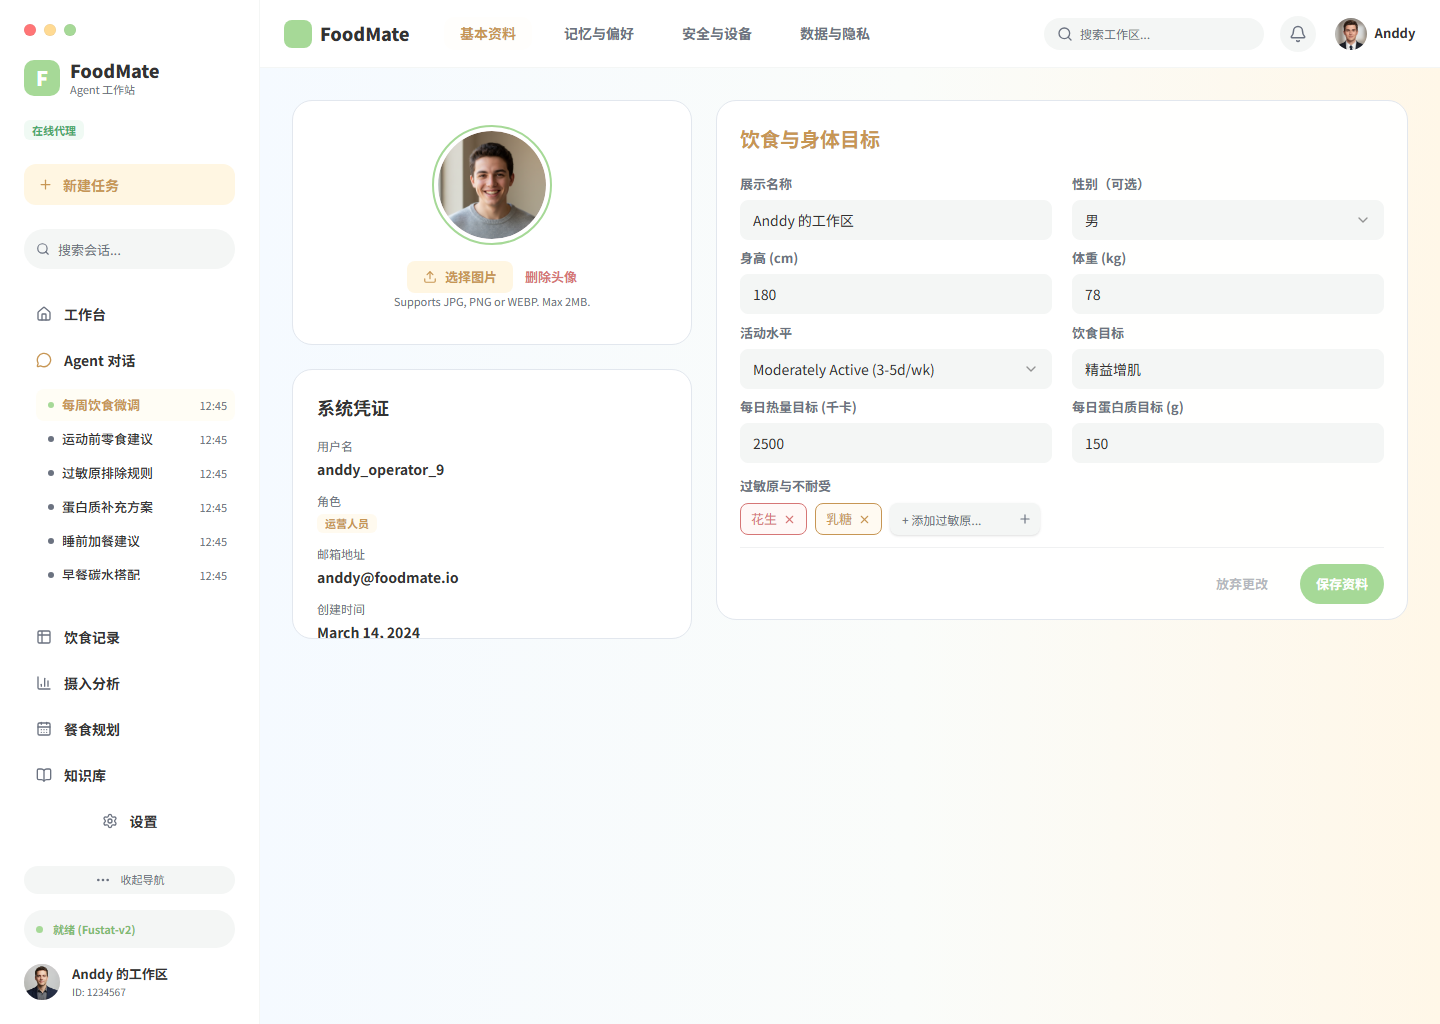
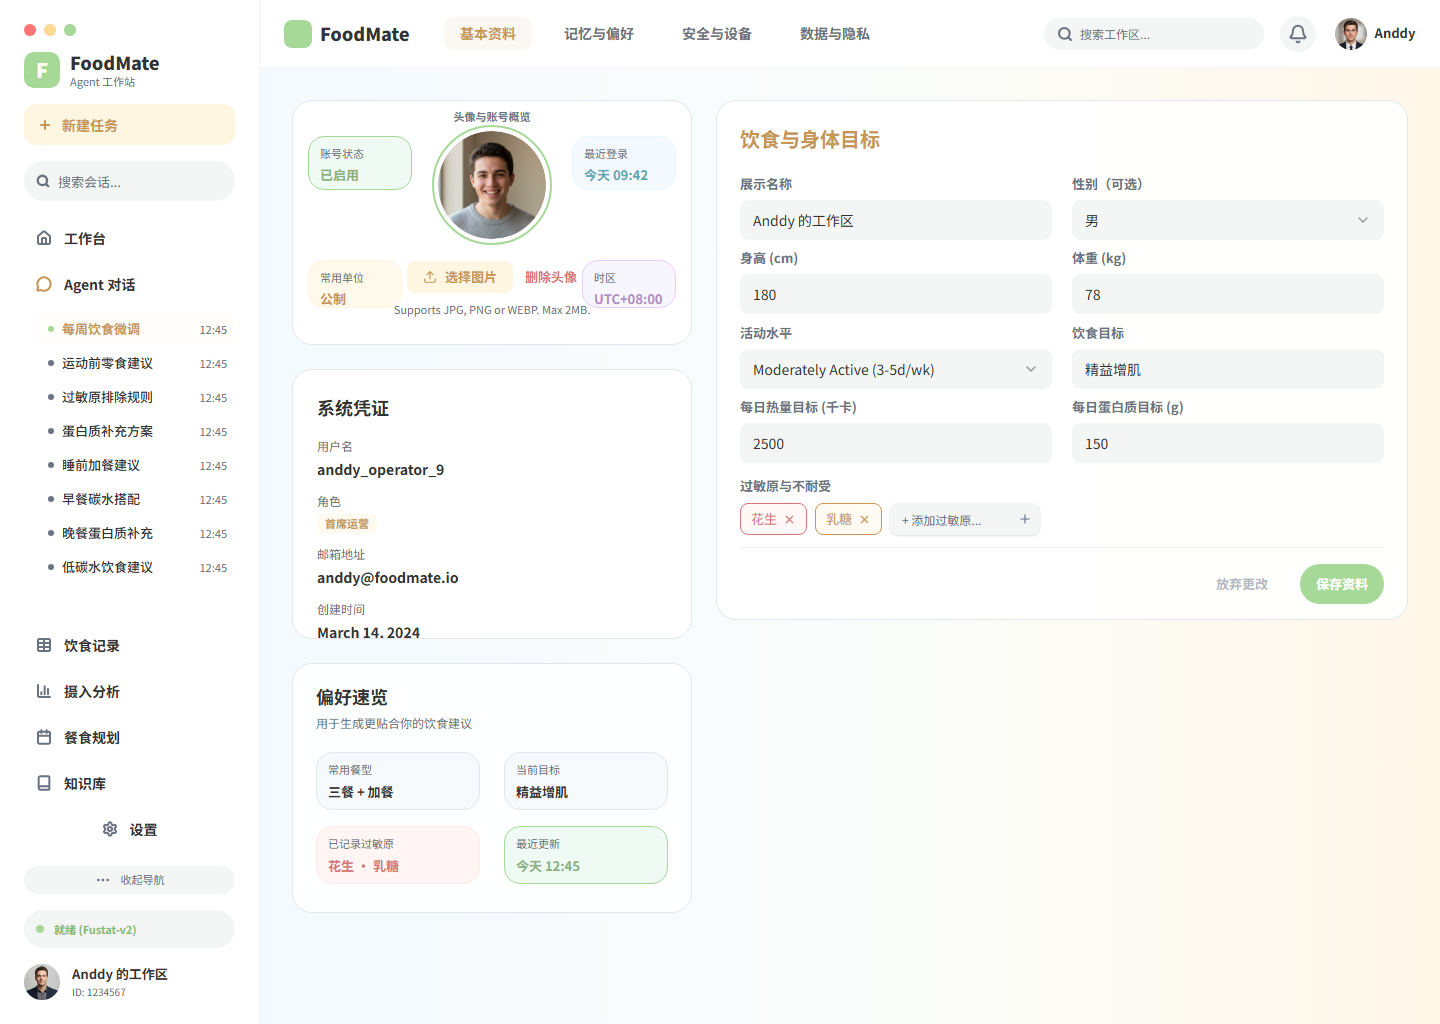
feat(profile): 收口 Figma Basic fixture

diff --git a/foodmate-ui/src/pages/ProfilePage/ProfilePage.tsx b/foodmate-ui/src/pages/ProfilePage/ProfilePage.tsx
@@ -787,8 +787,8 @@ function BasicTab({
   return (
     <div className={styles.basicLayout}>
       <div className={styles.basicLeft}>
-        <Card className={styles.profileCard}>
-          {!figmaFixture ? <p className={styles.overline}>头像与账号概览</p> : null}
+        <Card className={cn(styles.profileCard, figmaFixture && styles.figmaProfileCard)}>
+          <p className={styles.overline}>头像与账号概览</p>
           <div className={styles.avatarShell}>
             <div className={styles.avatarRing}>
               {avatarSource ? (
@@ -833,26 +833,22 @@ function BasicTab({
               </span>
             </div>
           ) : null}
-          {!figmaFixture ? (
-            <>
-              <div className={cn(styles.avatarSummary, styles.summaryStatus)}>
-                <span>账号状态</span>
-                <strong>{statusLabel(authUser.status)}</strong>
-              </div>
-              <div className={cn(styles.avatarSummary, styles.summaryLogin)}>
-                <span>最近登录</span>
-                <strong>{realMode ? authUser.lastLoginAt : '今天 09:42'}</strong>
-              </div>
-              <div className={cn(styles.avatarSummary, styles.summaryUnits)}>
-                <span>常用单位</span>
-                <strong>公制</strong>
-              </div>
-              <div className={cn(styles.avatarSummary, styles.summaryTimezone)}>
-                <span>时区</span>
-                <strong>UTC+08:00</strong>
-              </div>
-            </>
-          ) : null}
+          <div className={cn(styles.avatarSummary, styles.summaryStatus)}>
+            <span>账号状态</span>
+            <strong>{statusLabel(authUser.status)}</strong>
+          </div>
+          <div className={cn(styles.avatarSummary, styles.summaryLogin)}>
+            <span>最近登录</span>
+            <strong>{realMode ? authUser.lastLoginAt : '今天 09:42'}</strong>
+          </div>
+          <div className={cn(styles.avatarSummary, styles.summaryUnits)}>
+            <span>常用单位</span>
+            <strong>公制</strong>
+          </div>
+          <div className={cn(styles.avatarSummary, styles.summaryTimezone)}>
+            <span>时区</span>
+            <strong>UTC+08:00</strong>
+          </div>
         </Card>
 
         <Card className={styles.profileCard + ' ' + styles.credentialCard}>
@@ -864,7 +860,10 @@ function BasicTab({
             </div>
             <div>
               <span>角色</span>
-              <StatusChip tone="orange">{roleLabel(authUser.role)}</StatusChip>
+              <StatusChip tone="orange">
+                {/* Figma Basic 的示例角色文案仅覆盖 fixture 展示，不改变真实权限角色。 */}
+                {roleLabel(figmaFixture ? 'admin' : authUser.role)}
+              </StatusChip>
             </div>
             <div>
               <span>邮箱地址</span>
@@ -877,22 +876,20 @@ function BasicTab({
           </div>
         </Card>
 
-        {!figmaFixture ? (
-          <Card className={styles.profileCard + ' ' + styles.preferenceCard}>
-            <h2>偏好速览</h2>
-            <p>用于生成更贴合你的饮食建议</p>
-            <div className={styles.preferenceGrid}>
-              <SummaryTile label="常用餐型" value="三餐 + 加餐" />
-              <SummaryTile label="当前目标" value={profileForm.dietGoal || '精益增肌'} />
-              <SummaryTile
-                label="已记录过敏原"
-                value={profileForm.allergens.length ? profileForm.allergens.join(' · ') : '暂无'}
-                tone="red"
-              />
-              <SummaryTile label="最近更新" value="今天 12:45" tone="green" />
-            </div>
-          </Card>
-        ) : null}
+        <Card className={styles.profileCard + ' ' + styles.preferenceCard}>
+          <h2>偏好速览</h2>
+          <p>用于生成更贴合你的饮食建议</p>
+          <div className={styles.preferenceGrid}>
+            <SummaryTile label="常用餐型" value="三餐 + 加餐" />
+            <SummaryTile label="当前目标" value={profileForm.dietGoal || '精益增肌'} />
+            <SummaryTile
+              label="已记录过敏原"
+              value={profileForm.allergens.length ? profileForm.allergens.join(' · ') : '暂无'}
+              tone="red"
+            />
+            <SummaryTile label="最近更新" value="今天 12:45" tone="green" />
+          </div>
+        </Card>
       </div>
 
       <Card className={cn(styles.goalsCard, figmaFixture && styles.figmaGoalsCard)}>
@@ -2107,12 +2104,13 @@ export function ProfilePage() {
       topAvatarSrc={isFigmaFixture ? FIGMA_PROFILE_AVATARS.topbar : undefined}
       topbarShowMarkLetter={!isFigmaFixture}
       showWindowControls={isFigmaFixture}
+      // Profile 画板使用独立导出的壳层资源，真实模式继续使用 Lucide fallback。
+      fixtureVariant={isFigmaFixture ? 'profile' : undefined}
       sidebarFixture={
         isFigmaFixture
           ? {
               currentPage: 1,
               sessions: figmaSidebarSessions,
-              showTopStatus: true,
             }
           : undefined
       }

diff --git a/foodmate-ui/src/pages/ProfilePage/ProfilePage.test.tsx b/foodmate-ui/src/pages/ProfilePage/ProfilePage.test.tsx
@@ -75,6 +75,10 @@ describe('ProfilePage', () => {
       '/assets/figma/profile/topbar-avatar.png',
     );
     expect(container.querySelector('.profile img')).toHaveAttribute('src', '/assets/figma/profile/sidebar-avatar.png');
+    expect(container.querySelector('img[src="/assets/figma/workspace/profile/home.svg"]')).toBeInTheDocument();
+    expect(container.querySelector('img[src="/assets/figma/workspace/profile/topbar-search.svg"]')).toBeInTheDocument();
+    expect(container.querySelector('img[src="/assets/figma/workspace/profile/notification.svg"]')).toBeInTheDocument();
+    expect(screen.getByText('首席运营')).toBeInTheDocument();
     expect(document.querySelector('[data-name="window-controls"]')).toBeInTheDocument();
   });
 
@@ -90,8 +94,10 @@ describe('ProfilePage', () => {
     expect(screen.getByRole('textbox', { name: '每日热量目标 (千卡)' })).toHaveValue('2500');
     expect(screen.getByRole('textbox', { name: '每日蛋白质目标 (g)' })).toHaveValue('150');
     expect(screen.getByRole('heading', { name: '饮食与身体目标' }).closest('div')).toHaveClass(styles.figmaGoalsCard);
-    expect(screen.queryByText('偏好速览')).not.toBeInTheDocument();
-    expect(screen.queryByText('头像与账号概览')).not.toBeInTheDocument();
+    expect(screen.getByText('偏好速览')).toBeInTheDocument();
+    expect(screen.getByText('头像与账号概览')).toBeInTheDocument();
+    expect(screen.getByText('账号状态')).toBeInTheDocument();
+    expect(screen.getByText('头像与账号概览').closest('div')).toHaveClass(styles.figmaProfileCard);
   });
 
   it('marks the memories page with its Figma-only geometry contract', () => {

diff --git a/foodmate-ui/src/components/workspace/FigmaWorkspaceAsset.tsx b/foodmate-ui/src/components/workspace/FigmaWorkspaceAsset.tsx
@@ -1,6 +1,7 @@
 import type { ImgHTMLAttributes } from 'react';
 
-export type WorkspaceFixtureVariant = 'home' | 'chat' | 'diet-records' | 'analysis' | 'planning' | 'knowledge';
+export type WorkspaceFixtureVariant =
+  'home' | 'chat' | 'diet-records' | 'analysis' | 'planning' | 'knowledge' | 'profile';
 
 export type FigmaWorkspaceAssetName =
   | 'windowControls'
@@ -137,6 +138,23 @@ const assetFileNames: Record<WorkspaceFixtureVariant, Partial<Record<FigmaWorksp
     sessionDotDefault: 'session-dot-default.svg',
   },
   knowledge: {
+    windowControls: 'window-controls.svg',
+    newTask: 'new-task.svg',
+    sessionSearch: 'session-search.svg',
+    home: 'home.svg',
+    agentChat: 'agent-chat.svg',
+    dietRecords: 'diet-records.svg',
+    intakeAnalysis: 'intake-analysis.svg',
+    mealPlanning: 'meal-planning.svg',
+    knowledge: 'knowledge.svg',
+    settings: 'settings.svg',
+    topbarSearch: 'topbar-search.svg',
+    notification: 'notification.svg',
+    statusDot: 'status-dot.svg',
+    sessionDotActive: 'session-dot-active.svg',
+    sessionDotDefault: 'session-dot-default.svg',
+  },
+  profile: {
     windowControls: 'window-controls.svg',
     newTask: 'new-task.svg',
     sessionSearch: 'session-search.svg',

diff --git a/foodmate-ui/src/pages/ProfilePage/ProfilePage.module.css b/foodmate-ui/src/pages/ProfilePage/ProfilePage.module.css
@@ -145,6 +145,10 @@
   text-align: center;
 }
 
+.figmaProfileCard .uploadHint {
+  margin-top: 8px;
+}
+
 .fileName {
   display: block;
   max-width: 100%;

diff --git a/docxs/功能实现说明/Figma前端像素级验收报告.md b/docxs/功能实现说明/Figma前端像素级验收报告.md
@@ -9,7 +9,7 @@
 1. Figma 文件内部结构、组件系统、Prototype 和画板截图回读已完成。
 2. 前端代码与 Figma 画板的自动化像素差异已覆盖 105 个已建立映射的页面/状态，105 个结果均为 `DIFF_REVIEW`，不能标记为像素级通过。
 
-因此当前不能宣称“Figma 105 张画板已全部像素级通过”。已经完成的是可复核的 Figma 全量结构验收、105 个画板的路由/状态映射、差异证据收集，以及运行时几何、可见文字和 DPR 检查；当前 mapping 中 86 项已完成人工复核，19 项仍为 `PENDING`，并且已复核项仍存在可见差异，结果继续保留为 `DIFF_REVIEW`。
+因此当前不能宣称“Figma 105 张画板已全部像素级通过”。已经完成的是可复核的 Figma 全量结构验收、105 个画板的路由/状态映射、差异证据收集，以及运行时几何、可见文字和 DPR 检查；当前 mapping 中 87 项已完成人工复核，18 项仍为 `PENDING`，并且已复核项仍存在可见差异，结果继续保留为 `DIFF_REVIEW`。
 
 ## 1.1 2026-09-06 Workspace/Home 与 Agent Chat 资源收口
 
@@ -2449,3 +2449,21 @@ Figma Design 页共有 105 张顶层画板。本轮已为 105 张画板建立独
 - [ ] 三项仍存在头像素材、图标轮廓、字体光栅化和局部组合差异，继续保持 `DIFF_REVIEW`，不能标记为像素级 `PASS`。
 - [ ] 本节不代表其它 102 个画板重新采集或完成 105 项全量人工视觉复核；全量聚合仍为 `105 DIFF_REVIEW / 0 PASS / 0 UNMAPPED / 0 SIZE_MISMATCH`。
 - [ ] iconfont 实体包、完整 CSS/Unicode 映射、来源和许可证仍缺失，资源登记继续保持 `BLOCKED`。
+
+## 48. 2026-09-06 Profile Basic Figma 增量验收
+
+本节只处理 Profile Basic 画板 `806:1119`，不重新采集或重新判定其它画板。Figma 文件保持只读；本批次只调整 Profile fixture 的壳层资源、Figma 可见字段和局部间距，真实模式的权限与 Profile 服务逻辑未改变。
+
+| 画板 | Figma 节点 | 前端入口 | Figma PNG | 浏览器 PNG | 视口 / DPR | 差异比例 | MAE | RMSE | 最大通道差异 | 结论 |
+|---|---|---|---|---|---|---:|---:|---:|---:|---|
+| Profile Basic | `806:1119` | `/profile?state=basic` | `recaptured-figma/profile-basic-live-2026-09-06.png` | `recaptured/dpr1-profile-basic-browser-2026-09-06.png` | `1440×1024 / 1` | 60.2509% | 3.464978 | 18.459664 | 230 | `DIFF_REVIEW` |
+
+- [x] Figma Basic 的搜索和通知图标已登记到 Profile 独立资源目录，并由 `FigmaWorkspaceAsset` 统一加载；真实模式继续使用 Lucide fallback。
+- [x] Profile Basic fixture 已恢复 Figma 画板中可见的账号概览、状态摘要和偏好速览；“首席运营”只作为 fixture 展示文案，不改变真实角色权限。
+- [x] 上传说明的局部间距调整限定在 `figmaProfileCard`，不改变真实模式的 Profile 卡片布局。
+- [x] Figma 原始 PNG 与浏览器 PNG 均为 `1440×1024`；浏览器使用 Chrome `152.0.7977.77`、DPR `1`、字体 `loaded` 且无横向溢出；文字边界检查通过。
+- [x] `scripts/png-diff.mjs` 同尺寸结果为 `differentPixels=888436`、差异比例 `60.2509%`、`MAE=3.464978`、`RMSE=18.459664`、最大通道差异 `230`。
+- [x] 已完成人工视觉复核；顶栏资源、内容字段和主要几何已确认，字体、头像、图标和局部光栅化差异仍存在，因此继续保持 `DIFF_REVIEW`。
+- [x] 本批次统一验证通过：Vitest `40/40` 个测试文件、`257/257` 个用例，`typecheck`、`lint`、`format:check`、`build`、`qa:figma:validate` 和 `git diff --check` 均通过；证据校验为 `structuralPass=true`、`strictDprPass=true`。
+- [ ] 本节只复核一个 Profile 画板，不代表其余 104 个画板重新采集或完成全量人工视觉复核；全量聚合仍为 `105 DIFF_REVIEW / 0 PASS / 0 UNMAPPED / 0 SIZE_MISMATCH`。
+- [ ] iconfont 实体包、完整 CSS/Unicode 映射、来源和许可证仍未提供，资源登记继续保持 `BLOCKED`。

diff --git a/docxs/功能实现说明/前端已完成实现清单.md b/docxs/功能实现说明/前端已完成实现清单.md
@@ -35,6 +35,23 @@
 - [ ] 本批次没有重新验收全部 105 个画板；全量聚合仍为 `105 DIFF_REVIEW / 0 PASS / 0 UNMAPPED / 0 SIZE_MISMATCH`。
 - [ ] iconfont 实体包、完整 CSS/Unicode 映射、来源和许可证仍缺失，资源登记继续保持 `BLOCKED`。
 
+## 当前批次：Profile Basic Figma fixture 收口（2026-09-06）
+
+本批次只处理 Profile Basic 画板 `806:1119`，不重新采集或重新判定其它画板。Figma 设计稿保持只读，真实模式的 Profile 权限、头像上传和资料保存逻辑未改变。
+
+| 画板 | Figma 节点 | 前端入口 | Figma PNG | 浏览器 PNG | 视口 / DPR | 差异比例 | MAE | RMSE | 最大通道差异 | 结论 |
+|---|---|---|---|---|---|---:|---:|---:|---:|---|
+| Profile Basic | `806:1119` | `/profile?state=basic` | `recaptured-figma/profile-basic-live-2026-09-06.png` | `recaptured/dpr1-profile-basic-browser-2026-09-06.png` | `1440×1024 / 1` | 60.2509% | 3.464978 | 18.459664 | 230 | `DIFF_REVIEW` |
+
+- [x] Profile fixture 新增独立 `profile` Workspace 资源 variant，并登记 Figma 导出的窗口控制、导航、搜索、通知和状态资源；未创建虚构 iconfont glyph 或 `@font-face`。
+- [x] Figma Basic 中的“头像与账号概览”“账号状态”“最近登录”“常用单位”“时区”“偏好速览”和“饮食与身体目标”已恢复到 fixture；真实模式不受 fixture 文案覆盖影响。
+- [x] Figma fixture 的角色展示为“首席运营”，仅覆盖显示文案，不改变 `AuthUser.role` 的真实权限语义。
+- [x] 浏览器证据由 Chrome `152.0.7977.77` 在 `1440×1024`、DPR `1`、字体加载完成且无横向溢出条件下采集；Figma PNG 使用节点 `806:1119` 的实时原始尺寸截图。
+- [x] 自动 diff、视口、DPR、字体、文字溢出和人工视觉复核证据已登记；人工复核确认顶栏资源、Profile Basic 内容和主要几何已对齐，但仍存在字体、头像、图标和浏览器光栅化差异。
+- [x] 本大点统一验证通过：Vitest `40/40` 个测试文件、`257/257` 个用例，`typecheck`、`lint`、`format:check`、`build`、`qa:figma:validate` 和 `git diff --check` 均通过；Figma 证据校验为 `structuralPass=true`、`strictDprPass=true`。
+- [ ] 本画板仍为 `DIFF_REVIEW`，不能标记为像素级 `PASS`；本批次没有重新验收全部 105 个画板。
+- [ ] iconfont 实体包、完整 CSS/Unicode 映射、来源和许可证仍缺失，资源登记继续保持 `BLOCKED`。
+
 ## 1. 文档信息
 
 | 项目 | 内容 |
